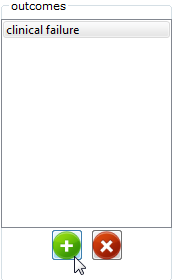
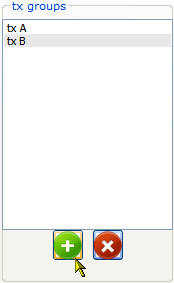
Doc update.

Changed region(s): [[0.0, 0.0, 1.0, 1.0]]

diff --git a/doc/edit_data_set.html b/doc/edit_data_set.html
@@ -2,19 +2,20 @@
 type=text/css rel=stylesheet>
 <h2><a name="top">Editing Data Sets</a></h2>
   <p>To edit an open data set, select <b>edit</b> on the <b>Dataset</b> menu. This
-opens the dialog shown below.</p>
+opens the edit dataset dialog shown below.</p>
  <p><img src="images/edit_dialog.png"></p>
-  <p>In the edit dialog, you can add or delete outcomes, follow-ups, treatment groups, studies, and covariates. For example, to add
-  a new outcome:</p>
+  <p>In the edit dataset dialog, you can add or delete studies, outcomes, follow-ups, treatment groups (study arms), and covariates. For example, to add
+  a new treatment group:</p>
   <ol>
-    <li>Click the plus button below the outcomes pane.
+    <li>Click the plus button below the tx groups pane.
     <p><img src="images/plus_button.png"></p></li>
-    <li>In the add new outcome dialog, type a name for the outcome.
-    <p><img src="images/outcome_dialog2.png"></p></li>
+    <li>In the add new tx group dialog, type a name for the treatment group.
+    <p><img src="images/add_tx_group.png"></p></li>
     <li>Click <b>OK</b>. The new outcome is displayed in the outcomes pane.
-    <p><img src="images/new_outcome.png"></p></li>
-    <li>In the edit dialog, click <b>OK</b>.</li>
+    <p><img src="images/new_tx_group.png"></p></li>
+    <li>In the edit dataset dialog, click <b>OK</b>.</li>
   </ol>
+  <table id="nav" cellspacing="0"><tr valign="center"><td align="left" width="20"><a href="subgroup_analysis.html#top"><img src="images/b_prev.gif" border="0"></td><td align="left">Subgroup Analysis</td></a><td>&nbsp;</td><td align="right">Navigating a Dataset</td><td align="right" width="20"><a href="navigate-data.html#top"><img src="images/b_next.gif" border="0"></td></a></td></tr></table>
     
   
   

diff --git a/doc/diagnostic_analysis.html b/doc/diagnostic_analysis.html
@@ -25,6 +25,10 @@ type=text/css rel=stylesheet>
   </ol>
   <p>For each selected method, the results pane displays a summary and forest plot, just as for a meta-analysis of binary data.  The forest plot for sensitivity is shown below.</p>
   <p><img src="images/sens_spec.png"></p>
-  <p>If you selet both <b>sensitivity</b> and <b>specificity</b>, the forest plots for sensitivity and specificity are displayed side-by-side. Likewise, if you select 
-  <b>likelihood ratio</b>, the positive and negative likelihood ratio forest plots are displayed side-by-side. The diagnostic odds ratio forest plot is displayed by itself, if selected.</p> 
+  <p>If you selet both <b>sensitivity</b> and <b>specificity</b>, the forest plots for sensitivity and specificity are displayed side-by-side. Also, an ROC plot of sensitivity and specificity is displayed, as shown below.</p>
+  <p><img src="images/roc.png"></p>
+  
+  Similarly, if you select 
+  <b>likelihood ratio</b>, the positive and negative likelihood ratio forest plots are displayed side-by-side. If you select <b>diagnostic odds ratio</b>, a single forest plot is displayed.</p> 
+  
   <table id="nav" cellspacing="0"><tr valign="center"><td align="left" width="20"><a href="analysis.html#top"><img src="images/b_prev.gif" border="0"></td><td align="left">Example - Binary Data</td></a><td>&nbsp;</td><td align="right">Adding a Covariate</td><td align="right" width="20"><a href="covariate.html#top"><img src="images/b_next.gif" border="0"></a></td></tr></table>

diff --git a/doc/navigate_data.html b/doc/navigate_data.html
@@ -1,0 +1,19 @@
+<link href="css/help.css" 
+type=text/css rel=stylesheet>
+<h2><a name="top">Navigating a Data Set</a></h2>
+  <p>You can use the navigation controls at the bottom of the data table to navigate between the following data categories:</p>
+  <ul>
+       <li>Outcome</li>
+       <li>Follow-up</li>
+       <li>Treatment group<li>
+     </ul>    
+  <p>The navigation controls are shown below.<p>
+ <p><img src="images/navigation_controls.png"></p>
+ <p>Use the up-down arrows to cycle through the three categories listed above. Within each category, use the left-right arrows to cycle through </p>
+    
+ <p>
+ <table id="nav" cellspacing="0"><tr valign="center"><td align="left" width="20"><a href="subgroup_analysis.html#top"><img src="images/b_prev.gif" border="0"></td><td align="left">Subgroup Analysis</td></a><td>&nbsp;</td><td align="right">Navigating a Dataset</td><td align="right" width="20"><a href="navigate_data.html#top"><img src="images/b_next.gif" border="0"></td></a></td></tr></table>
+    
+  
+  
+  

diff --git a/doc/openMA_help.html b/doc/openMA_help.html
@@ -35,7 +35,7 @@ function calcHeight()
 <tr><td colspan="2">
 <h1>Open Meta-Analyst Help</h1></td>
 </tr>
-<tr><td valign="top" align="left" width="100%">
+<tr><td valign="top" align="left">
 <h2>Contents</h2>
 <div id="accordion">
 <h3><a href='#'>Getting Started</a></h3>
@@ -59,6 +59,7 @@ function calcHeight()
       <li><a href="#self" onclick="frames['IFrameName'].location.href='leave_one_out_analysis.html'">Leave-One-Out Meta-Analysis</a></li>
       <li><a href="#self" onclick="frames['IFrameName'].location.href='subgroup_analysis.html'">Subgroup Meta-Analysis</a></li>
       <li><a href="#self" onclick="frames['IFrameName'].location.href='edit_data_set.html'">Editing a Data Set</a></li>
+      <li><a href="#self" onclick="frames['IFrameName'].location.href='navigate_data.html'">Navigating a Data Set</a></li>
        <li><a href="#self" onclick="frames['IFrameName'].location.href='sort_data.html'">Sorting Data</a></li> 
    </ul>
 </div>

diff --git a/doc/cumulative_analysis.html b/doc/cumulative_analysis.html
@@ -1,7 +1,7 @@
 <link href="css/help.css" 
 type=text/css rel=stylesheet>
 <h2><a name="top">Cumulative Meta-Analysis</a></h2>
-  <p>In cumulative meta-analysis, you perform a sequence of meta-analyses on subsets of the studies, starting with a single study and adding the other studies one at a time. This enables you to see the effect that adding each new study has on the cumulative estimate.</p>
+  <p>In cumulative meta-analysis, you perform a sequence of meta-analyses on subsets of the studies, starting with a single study and adding the other studies one at a time. A cumulative meta-analysis shows how the overall estimate changes as each new study is added to the pool.</p>
 <p>To see an example of cumulative meta-analysis, do the following steps. </p>
   <ol>
      <li>Select <b>Open</b> on the <b>File</b> menu and open the file amino.oma.</li>

diff --git a/doc/introduction.html b/doc/introduction.html
@@ -9,9 +9,9 @@ type=text/css rel=stylesheet>
   <h3>Installing Open Meta-Analyst</h3>
   <p>To install Open Meta-Analyst, do the following:</p>
   <ol>
-  <li>Click <a href="http://tuftscaes.org/open_meta/open_meta_analyst.zip">here</a> to download a zip file containing the software. </li>
+  <li>Click <a href="http://tuftscaes.org/open_meta/open_meta_analyst_windows.zip">here</a> to download a zip file containing the software. </li>
   <li>In the dialog, select <b>Save File</b> and click <b>OK</b>.</li>
-  <li>Save the file open_meta_analyst.zip in a local directory on your computer. </li>
+  <li>Save the file open_meta_analyst_windows.zip in a local directory on your computer. </li>
   <li>Expand the zip file.</p>
   </ol>
   <p> The next section explains how to start Open Meta-Analyst.</p>

diff --git a/doc/leave_one_out_analysis.html b/doc/leave_one_out_analysis.html
@@ -1,7 +1,7 @@
 <link href="css/help.css" 
 type=text/css rel=stylesheet>
 <h2><a name="top">Leave-One-Out Meta-Analysis</a></h2>
-  <p>In leave-one-out meta-analysis, you perform a meta analysis on each subset of the studies obtained by leaving out one study. This enables you to see how removing each individual study affects the
+  <p>In leave-one-out meta-analysis, you perform a meta analysis on each subset of the studies obtained by leaving out exactly one study. This shows how much each individual study affects the
   overall estimate.
   <p>This section provides an example that shows how to perform a cumlative meta-analysis. To run the example, do the following steps: </p>
   <ol>
